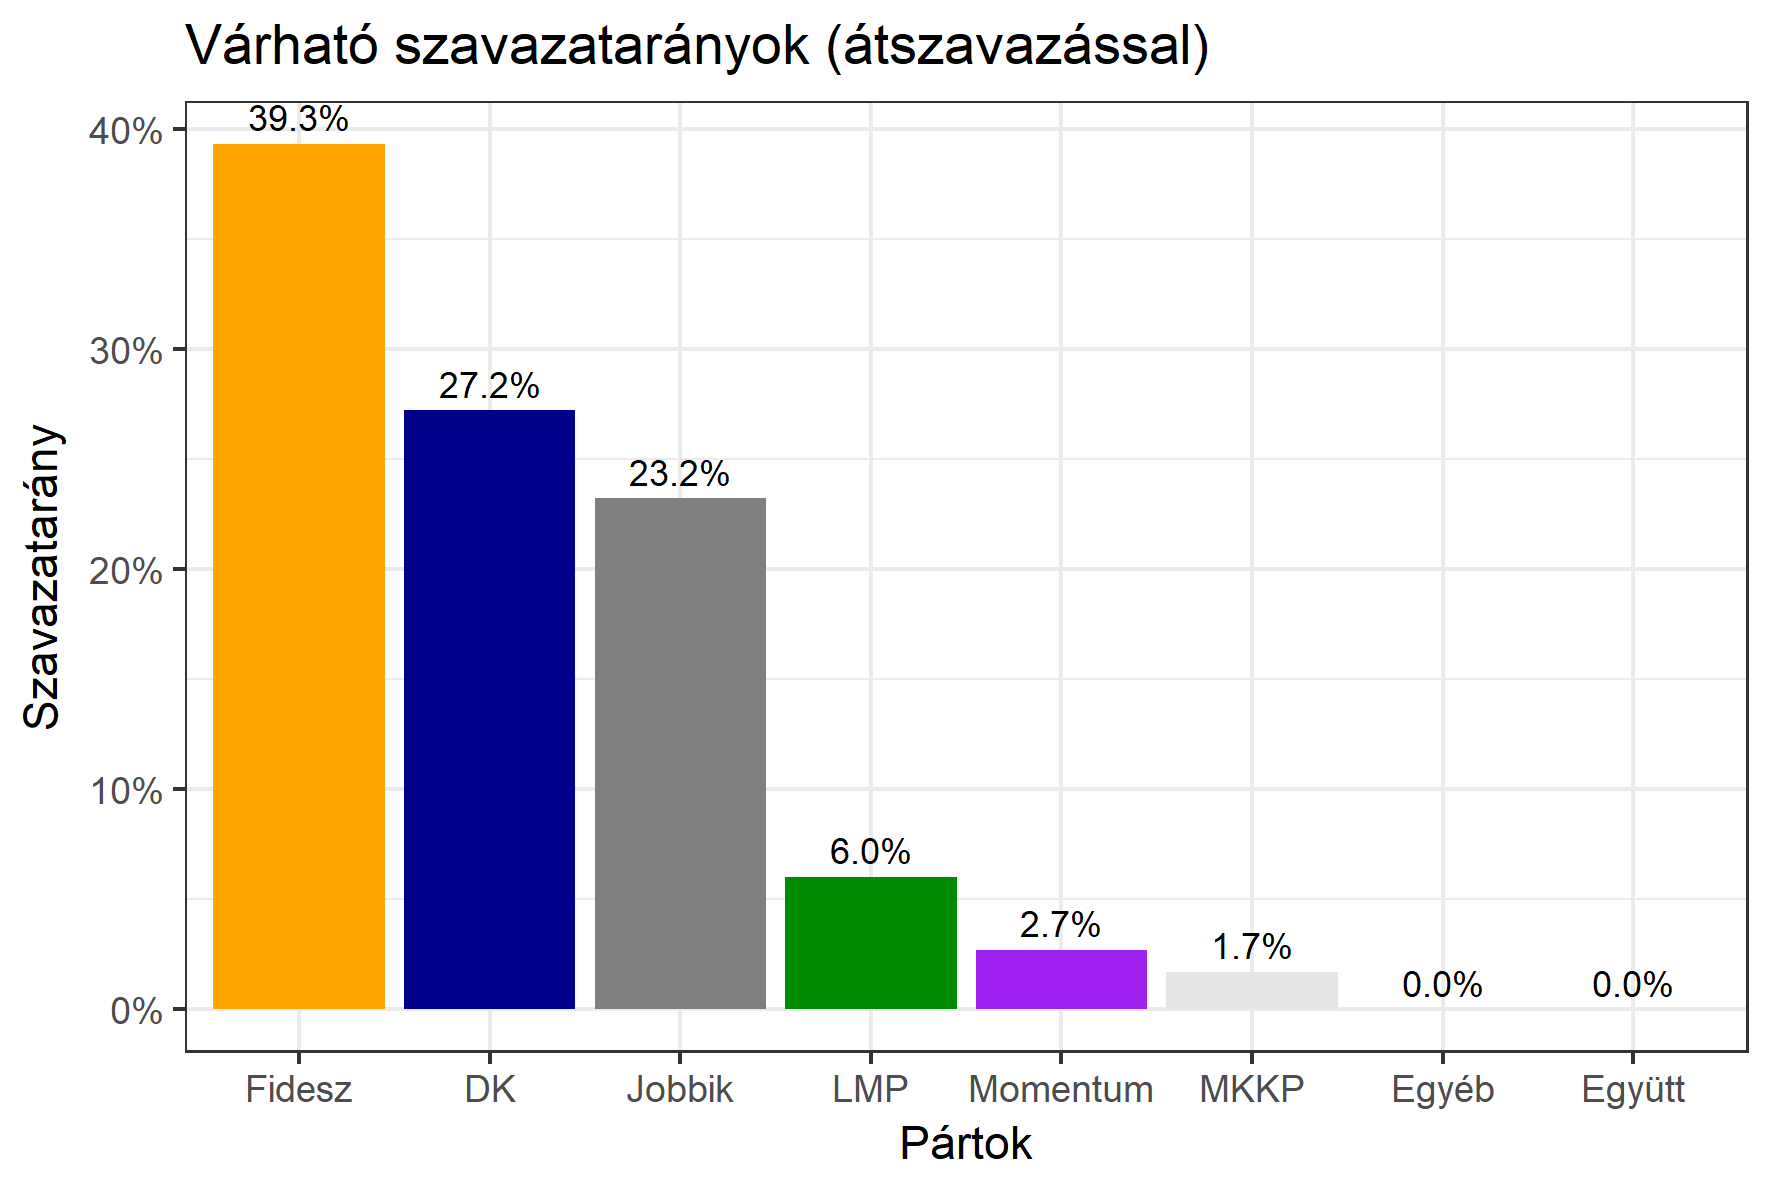
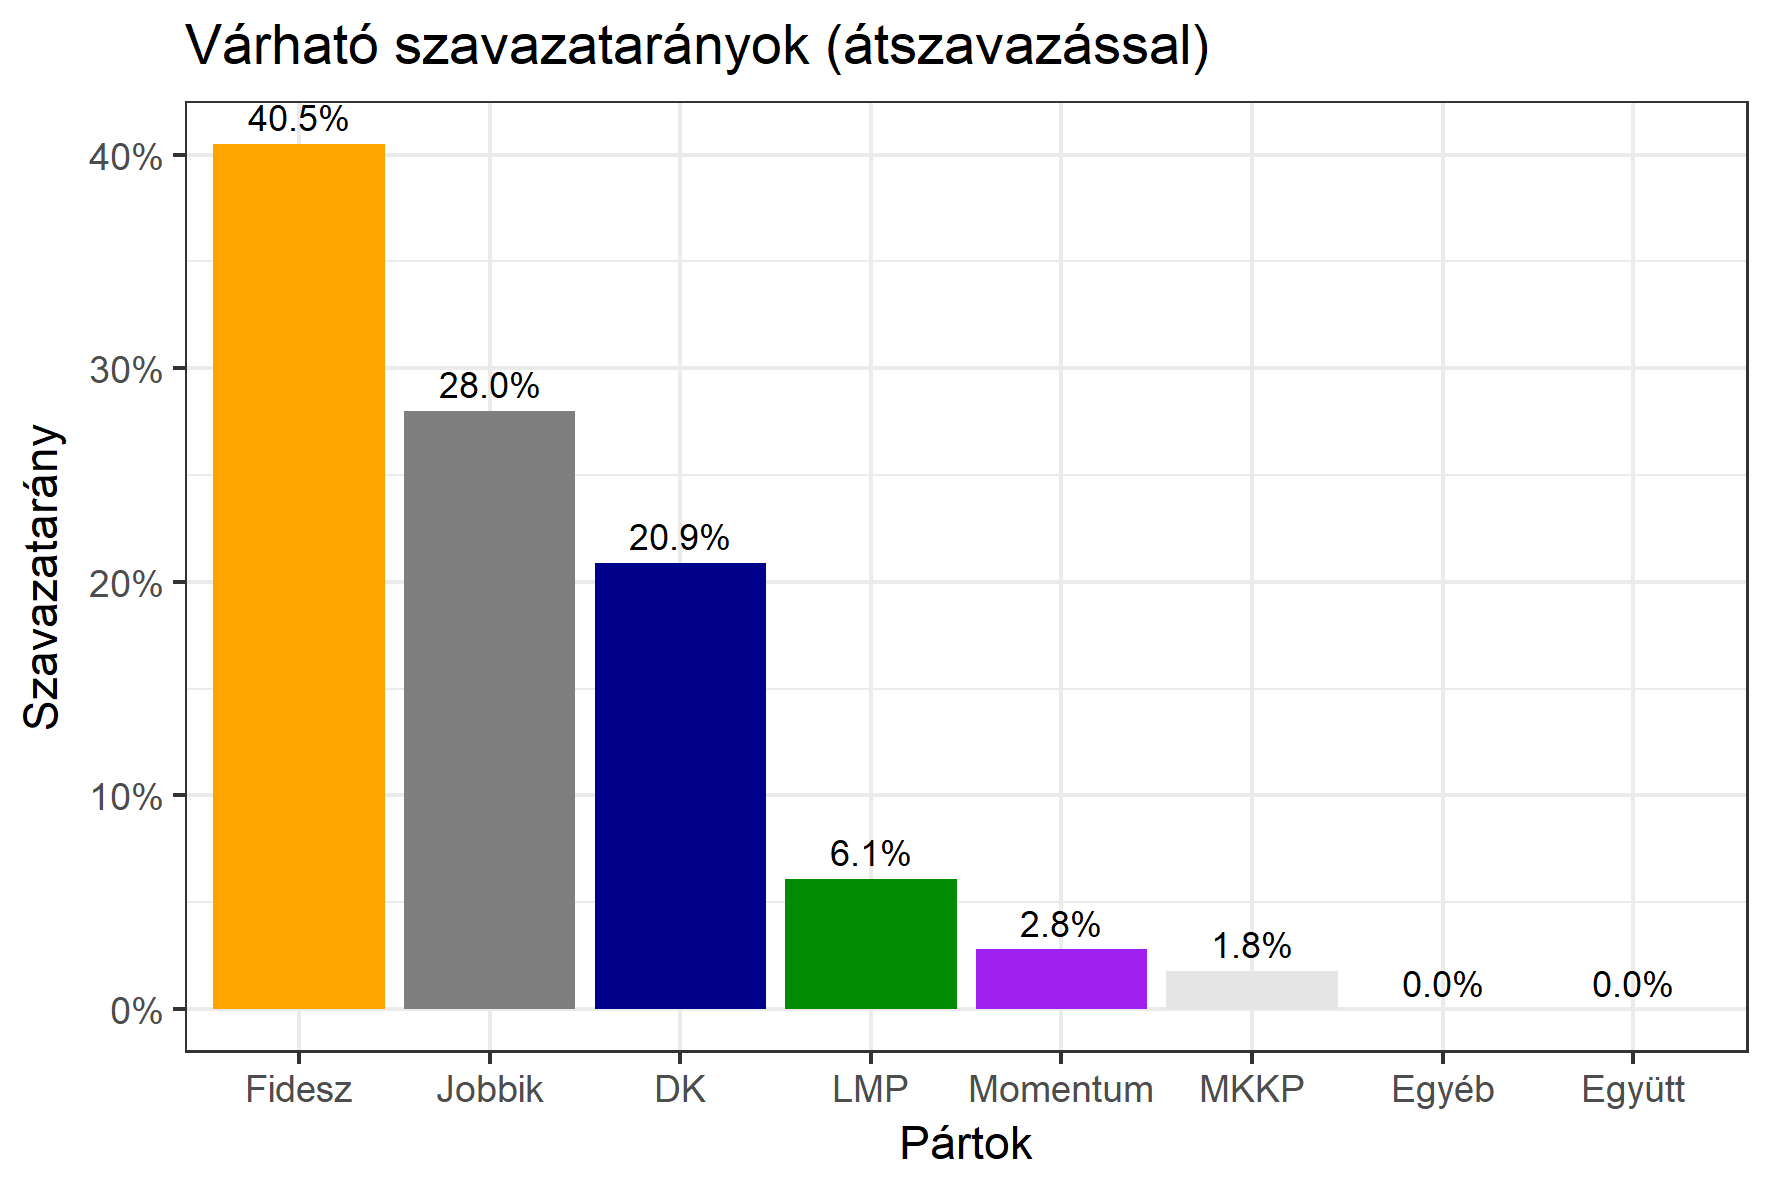
be1 frissítés

diff --git a/be1.md b/be1.md
@@ -14,37 +14,37 @@ permalink: /be1
 <br/>
 <h6><strong>Legfrissebb 2018-as becslések eredménye (átszavazással):</strong></h6><br/><img src="images/vk_charts/be1.png" style="height: 100%; width: 100%; object-fit: contain"><br/>
 			<h6><strong>Becslés megbízhatósága a legesélyesebb jelöltről:</strong> <strong><span id="biztos_jelolt">Nincs egyértelmű esélyes</span></strong></h6><br/>
-<h5><strong>Legesélyesebb ellenzéki jelölt: <span id="masodik">Nagy-Huszein Tibor (DK)</span><span id="esely2"></span><span></span></strong></h5>
+<h5><strong>Legesélyesebb ellenzéki jelölt: <span id="masodik">Kocziha Tünde (Jobbik)</span><span id="esely2"></span><span></span></strong></h5>
 <h5><strong><a href="https://rendszervaltas2018.hu">Márki-Zay Péter ajánlása</a>: </strong></h5>
 <table class="striped">
               <thead>
                 <tr>
                     <th>Jelöltek</th>
-                    <th>Várható szavazatarány egyéniben (zárójelben az arányok átszavazás esetén)</th>
+                    <th>Várható szavazatarány egyéniben (zárójelben az arányok átszavazás esetén)- FRISSÍTVE</th>
                 </tr>
               </thead>
               <tbody>
              <tr>
                   <td>Herczeg Tamás - Fidesz-KDNP <img src="images/fideszkdnp_logo.png" style="width:55px;height:30px;"></td>
-				   <td id="id_fidesz">38.4% &emsp; <span id="id_fidesz2">(39.3%)</span></td>
+				   <td id="id_fidesz">39.6% &emsp; <span id="id_fidesz2">(39.3%)</span></td>
 			</tr>
-			<tr><td>Kocziha Tünde - Jobbik <img src="images/jobbik_logo.png" style="width:23px;height:30px;"></td> <td id="id_jobbik">20.3% &emsp; <span id="id_jobbik2">(23.2%)</span></td></tr>
+			<tr><td>Kocziha Tünde - Jobbik <img src="images/jobbik_logo.png" style="width:23px;height:30px;"></td> <td id="id_jobbik">20.9% &emsp; <span id="id_jobbik2">(28.0%)</span></td></tr>
 <tr>
                   <td>Nagy-Huszein Tibor - DK <img src="images/dk_logo.png" style="width:34px;height:30px;"></td>
-				   <td id="id_baloldal">22.8% &emsp; <span id="id_baloldal2">(27.2%)</span></td>
+				   <td id="id_baloldal">20.5% &emsp; <span id="id_baloldal2">(20.9%)</span></td>
 			</tr>
 			<tr>
                   <td>Kovács Katalin Ildikó - LMP <img src="images/lmp_logo.png" style="width:52px;height:30px;"></td>
-				   <td id="id_lmp">9.7% &emsp; <span id="id_lmp2">(6.0%)</span></td>
+				   <td id="id_lmp">10.0% &emsp; <span id="id_lmp2">(6.1%)</span></td>
 			</tr>
 			<tr>
 				  <td>Almási István - Momentum <img src="images/momentum_logo.png" style="width:44px;height:30px;"></td>
-				   <td id="id_momentum">4.4% &emsp; <span id="id_momentum2">(2.7%)</span></td>
+				   <td id="id_momentum">4.5% &emsp; <span id="id_momentum2">(2.8%)</span></td>
 			</tr>
    
 <tr>
 <td>Babiniszki Péter - MKKP <img src="images/mkkp_logo.png" style="width:49px;height:30px;"></td>
- <td id="id_mkkp">2.1% &emsp; <span id="id_mkkp2">(1.7%)</span></td>
+ <td id="id_mkkp">2.1% &emsp; <span id="id_mkkp2">(1.8%)</span></td>
 </tr>                
               </tbody>
             </table><h5>Várható győztes: <span id="gyoztes">Fidesz</span><span id="esely"></span><span></span></h5>
